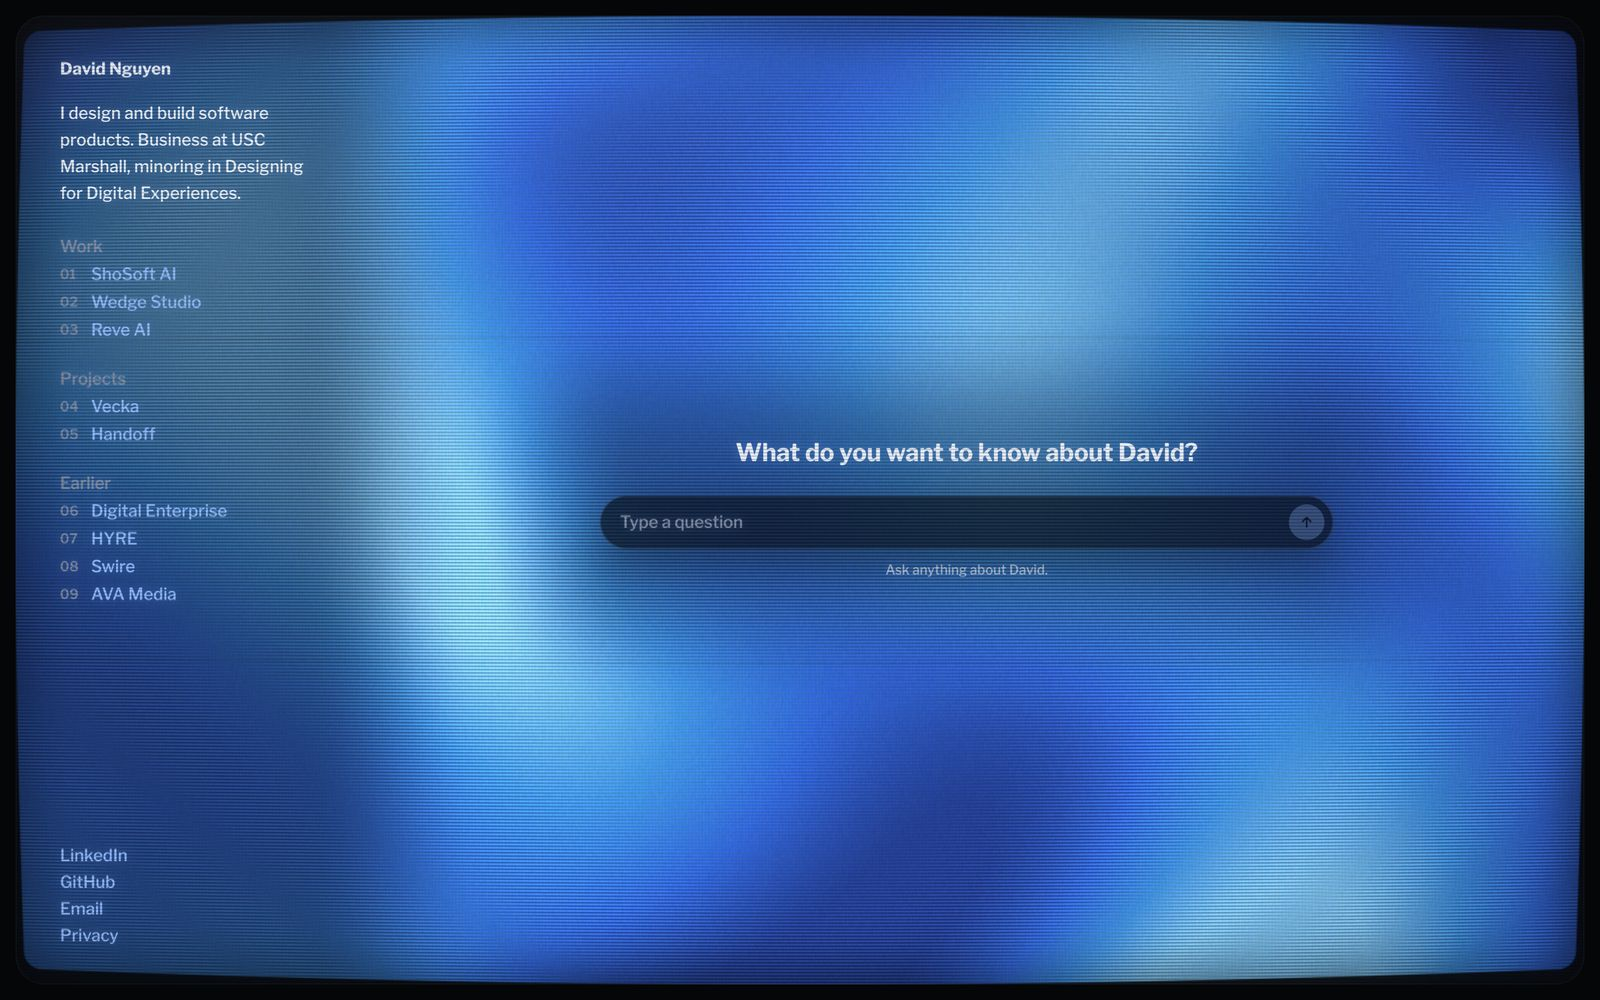
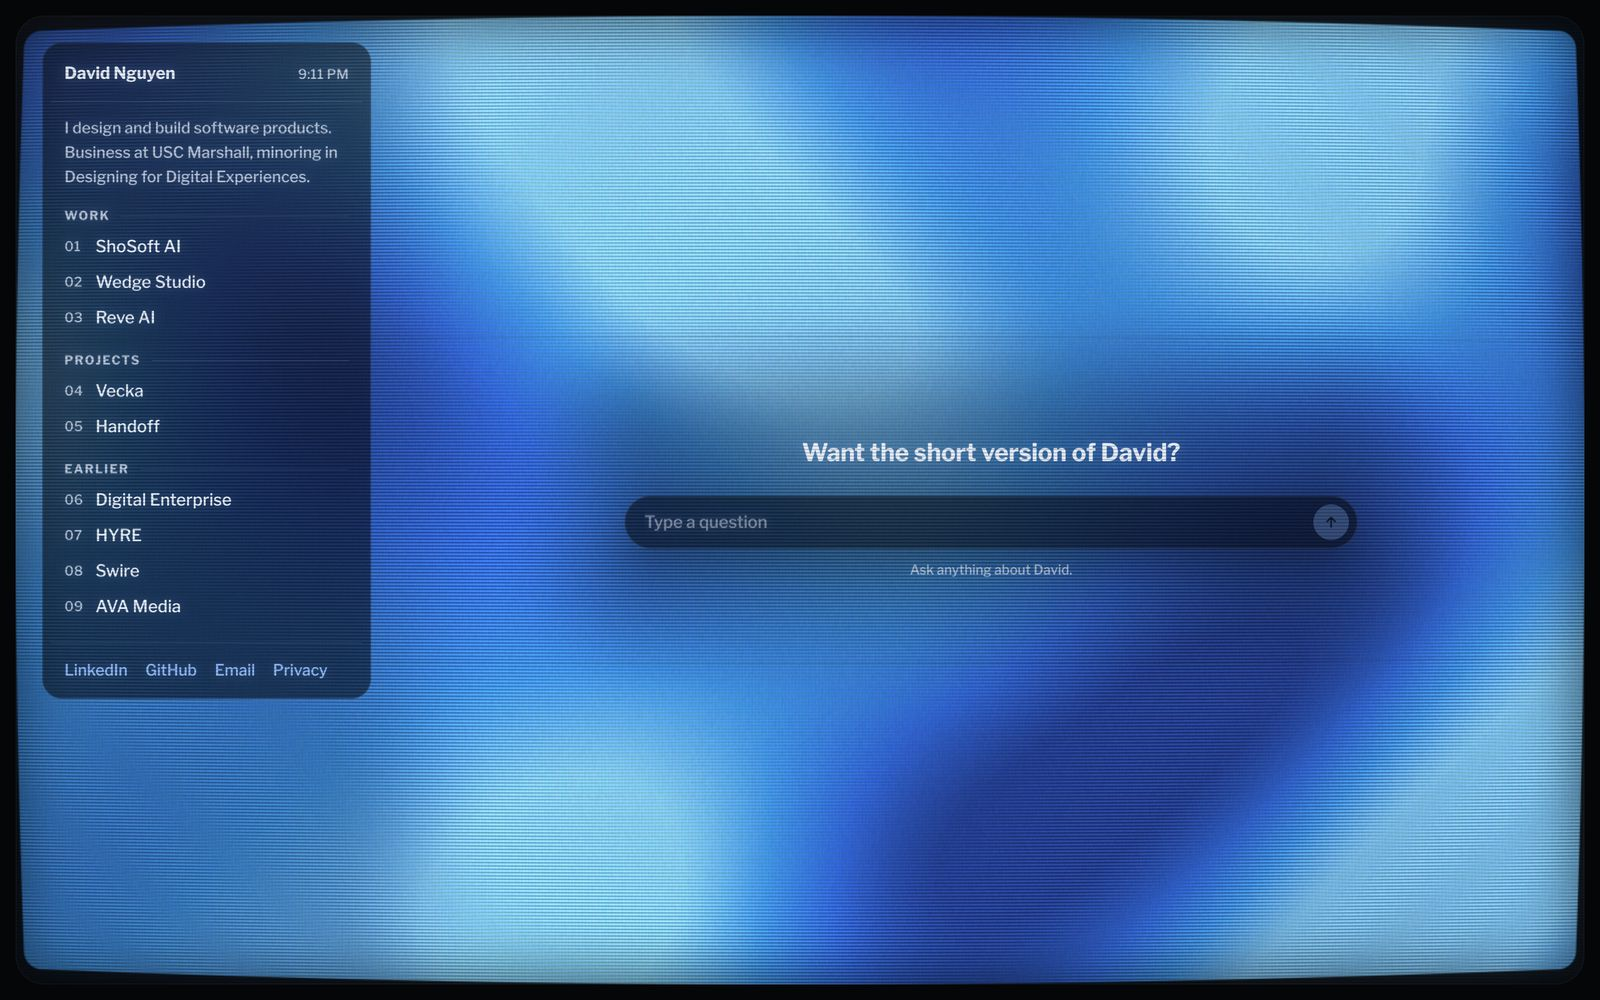
Redesign the guide as an on screen channel guide
The guide is now a panel of darker glass on the picture, like a TV's
channel guide: a header strip with the name and the time, the bio, the
channels in labelled sections with their numbers in one column, the
open one on a selection bar in the brand's colour, and the links (now
with Privacy) at the foot instead of far below. The chat column centres
in the screen to the right of the guide, the article's title lines up
with the guide's header and carries its channel number, and the chat's
box, sheet and cards share the guide's glass. README and screens updated.

diff --git a/src/styles/site.css b/src/styles/site.css
@@ -24,8 +24,16 @@
   --ease: cubic-bezier(0.22, 1, 0.36, 1);
   --pad: 14px;
   --radius: 26px;
-  /* the guide down the left of the screen */
-  --side: 300px;
+  /* panes of darker glass on the picture: the guide, the chat's box,
+     its sheet and its cards */
+  --glass-bg: rgba(5, 8, 14, 0.56);
+  --glass-line: rgba(200, 220, 255, 0.1);
+  --glass-radius: 18px;
+  /* the guide's panel, inset from the tube's edge; everything else on
+     the screen lines up to the right of it */
+  --inset: 24px;
+  --panel-w: 296px;
+  --side: calc(var(--panel-w) + 2 * var(--inset));
   /* the scanline pitch, set by the screen to match its own lines */
   --scan: 3px;
   /* the article's width: text keeps a reading measure, screens use the
@@ -47,6 +55,8 @@
     /* a lit room: dark text on a bright picture, no halo */
     --glow: none;
     --scanline: rgba(30, 40, 60, 0.07);
+    --glass-bg: rgba(250, 251, 253, 0.74);
+    --glass-line: rgba(18, 24, 33, 0.09);
     color-scheme: light;
   }
 }
@@ -109,51 +119,101 @@ button { font: inherit; color: inherit; }
   }
 }
 
-/* The on screen display: the guide down the left of the glass */
+/* The on screen display. The guide is a panel of darker glass on the
+   picture, composed like a TV's channel guide: a header strip with the
+   name and the time, a line about David, the channels in sections with
+   their numbers in one column, the open one on a selection bar, and the
+   links at the foot. */
 
 .osd {
   position: absolute;
   z-index: 2;
-  top: 0;
-  left: 0;
-  bottom: 0;
-  width: var(--side);
-  display: flex;
-  flex-direction: column;
-  padding: 36px 28px 32px 40px;
+  top: var(--inset);
+  left: var(--inset);
+  bottom: var(--inset);
+  width: var(--panel-w);
+  pointer-events: none;
+}
+.osd-panel {
+  pointer-events: auto;
+  max-height: 100%;
   overflow-y: auto;
   scrollbar-width: none;
+  padding: 16px 8px 8px;
+  border-radius: var(--glass-radius);
+  background: var(--glass-bg);
+  box-shadow: inset 0 0 0 1px var(--glass-line);
+  -webkit-backdrop-filter: blur(16px);
+  backdrop-filter: blur(16px);
   text-shadow: var(--glow);
 }
-.osd::-webkit-scrollbar { display: none; }
+.osd-panel::-webkit-scrollbar { display: none; }
 
+.osd-top {
+  display: flex;
+  align-items: baseline;
+  justify-content: space-between;
+  gap: 12px;
+  padding: 0 12px 12px;
+  border-bottom: 1px solid var(--glass-line);
+}
 .name { font-size: 15px; line-height: 24px; font-weight: 700; }
-.bio { margin-top: 16px; }
+.osd-clock { color: var(--soft); font-size: 12px; font-variant-numeric: tabular-nums; letter-spacing: 0.02em; }
+.bio { padding: 12px 12px 0; color: var(--soft); font-size: 14px; line-height: 22px; }
 
-.lists { margin-top: 24px; display: grid; gap: 20px; }
-.label { font-size: inherit; font-weight: inherit; color: var(--muted); }
+.lists { margin-top: 16px; display: grid; gap: 14px; }
+.label {
+  display: flex;
+  align-items: center;
+  gap: 10px;
+  margin: 0 12px 4px;
+  color: var(--soft);
+  font-size: 11px;
+  line-height: 16px;
+  font-weight: 700;
+  letter-spacing: 0.12em;
+  text-transform: uppercase;
+}
+.label::after { content: ''; flex: 1; height: 1px; background: var(--glass-line); }
+
+/* a channel: number, name, and the bar that marks it */
+.channel {
+  display: grid;
+  grid-template-columns: 28px 1fr auto;
+  align-items: center;
+  min-height: 32px;
+  padding: 0 10px 0 12px;
+  border-radius: 9px;
+  color: var(--ink);
+  transition: background-color 160ms var(--ease), color 160ms var(--ease);
+}
+.channel .ch {
+  color: var(--soft);
+  font-size: 12px;
+  font-variant-numeric: tabular-nums;
+  letter-spacing: 0.02em;
+}
+@media (hover: hover) { .channel:hover { background: color-mix(in srgb, var(--link) 14%, transparent); } }
+.channel.active { background: color-mix(in srgb, var(--link) 26%, transparent); box-shadow: inset 2px 0 0 var(--link); }
+.channel.active .ch { color: var(--link); }
+.channel .x { color: var(--soft); }
+.channel:focus-visible { outline-offset: -1px; border-radius: 9px; }
 
 .link {
-  display: inline-flex;
-  align-items: center;
-  gap: 6px;
   color: var(--link);
   transition: color 700ms var(--ease), opacity 160ms var(--ease);
 }
 @media (hover: hover) { .link:hover { opacity: 0.72; } }
-.link .x { flex: none; opacity: 0.85; }
-/* channel numbers, quiet and even */
-.channel .ch {
-  min-width: 22px;
-  color: var(--muted);
-  font-variant-numeric: tabular-nums;
-  font-size: 12px;
-  letter-spacing: 0.02em;
-  transition: color 700ms var(--ease);
-}
-.channel.active .ch { color: var(--link); }
 
-.links { margin-top: auto; padding-top: 32px; }
+.links {
+  display: flex;
+  flex-wrap: wrap;
+  gap: 4px 16px;
+  margin-top: 16px;
+  padding: 12px 12px 6px;
+  border-top: 1px solid var(--glass-line);
+  font-size: 14px;
+}
 
 /* The article, on the screen beside the guide. It lies under the field,
    which blanks to reveal it. */
@@ -176,11 +236,12 @@ button { font: inherit; color: inherit; }
 
 .article-inner {
   width: var(--col);
-  padding: 36px 40px 72px 8px;
+  padding: 40px 40px 72px 0;
 }
 
 .article-head { display: flex; align-items: center; justify-content: space-between; }
-.article-head .name { font-weight: 700; }
+.article-head .name { font-weight: 700; display: flex; align-items: baseline; gap: 10px; }
+.article-head .ch { color: var(--link); font-size: 12px; font-variant-numeric: tabular-nums; transition: color 700ms var(--ease); }
 .close { display: none; }
 
 .article p { margin-top: 16px; max-width: 620px; }
@@ -386,10 +447,10 @@ button { font: inherit; color: inherit; }
   gap: 8px;
   padding: 8px 8px 8px 18px;
   border-radius: 24px;
-  background: rgba(6, 9, 15, 0.62);
-  box-shadow: inset 0 0 0 1px rgba(200, 220, 255, 0.12), 0 10px 40px rgba(0, 0, 0, 0.35);
-  -webkit-backdrop-filter: blur(14px);
-  backdrop-filter: blur(14px);
+  background: var(--glass-bg);
+  box-shadow: inset 0 0 0 1px var(--glass-line), 0 10px 40px rgba(0, 0, 0, 0.3);
+  -webkit-backdrop-filter: blur(16px);
+  backdrop-filter: blur(16px);
   transition: box-shadow 200ms var(--ease);
 }
 .composer:focus-within { box-shadow: inset 0 0 0 1px color-mix(in srgb, var(--link) 55%, transparent), 0 10px 40px rgba(0, 0, 0, 0.35); }
@@ -437,7 +498,7 @@ button { font: inherit; color: inherit; }
   padding: 10px 12px 12px;
   border-radius: 12px;
   background: color-mix(in srgb, var(--ink) 5%, transparent);
-  box-shadow: inset 0 0 0 1px var(--line);
+  box-shadow: inset 0 0 0 1px var(--glass-line);
   transition: box-shadow 160ms var(--ease);
 }
 a.card:hover, a.card:focus-visible { box-shadow: inset 0 0 0 1px color-mix(in srgb, var(--link) 55%, transparent); }
@@ -472,18 +533,17 @@ a.card:hover, a.card:focus-visible { box-shadow: inset 0 0 0 1px color-mix(in sr
 .crt-slot[data-mode="dock"] .chat-note { display: none; }
 .crt-slot[data-mode="dock"][data-expanded] .chat {
   padding: 12px 10px 10px;
-  border-radius: 20px;
-  background: rgba(6, 9, 15, 0.5);
+  border-radius: var(--glass-radius);
+  background: var(--glass-bg);
   -webkit-backdrop-filter: blur(16px);
   backdrop-filter: blur(16px);
-  box-shadow: inset 0 0 0 1px rgba(200, 220, 255, 0.08);
+  box-shadow: inset 0 0 0 1px var(--glass-line);
 }
 
 @media (prefers-color-scheme: light) {
-  .composer { background: rgba(250, 251, 253, 0.78); box-shadow: inset 0 0 0 1px rgba(18, 24, 33, 0.1), 0 10px 30px rgba(30, 45, 80, 0.12); }
+  .composer { box-shadow: inset 0 0 0 1px var(--glass-line), 0 10px 30px rgba(30, 45, 80, 0.12); }
   .composer:focus-within { box-shadow: inset 0 0 0 1px color-mix(in srgb, var(--link) 50%, transparent), 0 10px 30px rgba(30, 45, 80, 0.12); }
   .card { background: rgba(255, 255, 255, 0.55); }
-  .crt-slot[data-mode="dock"][data-expanded] .chat { background: rgba(244, 246, 250, 0.82); box-shadow: inset 0 0 0 1px rgba(18, 24, 33, 0.08); }
   .cursor { box-shadow: none; }
 }
 
@@ -518,8 +578,9 @@ dialog.viewer[open]::backdrop { animation: fade 300ms var(--ease) both; }
    bar along its bottom, and an article slides up over it. */
 
 @media (max-width: 999px) {
-  :root { --pad: 8px; --radius: 22px; --side: 0px; }
-  .osd { width: auto; right: 0; padding: 32px 24px 96px; }
+  :root { --pad: 8px; --radius: 22px; --inset: 12px; }
+  .osd { width: auto; right: var(--inset); bottom: 80px; }
+  .osd-panel { padding-top: 14px; }
   .crt-slot[data-mode] { left: 12px; right: 12px; top: auto; bottom: 12px; width: auto; height: 56px; transform: none; }
   /* opened, the conversation takes the whole screen */
   .crt-slot[data-mode="bar"][data-expanded] { inset: 0; height: auto; z-index: 3; }

diff --git a/src/components/site/App.tsx b/src/components/site/App.tsx
@@ -29,6 +29,20 @@ const LINKS = [
 
 const slugOf = (path: string) => path.match(/^\/projects\/([^/]+)\/?$/)?.[1] ?? null;
 
+/* the time in the guide's header strip, like a set's on screen clock;
+   blank until the page runs so the server and the browser agree */
+function Clock() {
+  const [now, setNow] = useState('');
+  useEffect(() => {
+    const fmt = new Intl.DateTimeFormat(undefined, { hour: 'numeric', minute: '2-digit' });
+    const tick = () => setNow(fmt.format(new Date()));
+    tick();
+    const id = window.setInterval(tick, 15000);
+    return () => clearInterval(id);
+  }, []);
+  return <span className="osd-clock" aria-hidden="true">{now}</span>;
+}
+
 export default function App({ work, projects, earlier, initial }: Props) {
   const all = useMemo(() => [...work, ...projects, ...earlier], [work, projects, earlier]);
   const sections = useMemo(() => [
@@ -167,6 +181,7 @@ export default function App({ work, projects, earlier, initial }: Props) {
       <div className="tube">
         <Panel
           p={all.find((x) => x.slug === shown) ?? null}
+          channel={shown ? channel(shown) : ''}
           open={!!open}
           onClose={() => show(null)}
           onZoom={(src, alt) => setZoom({ src, alt })}
@@ -175,50 +190,57 @@ export default function App({ work, projects, earlier, initial }: Props) {
           <Field palette={palette} mark={open} cut={cut} />
         </main>
 
-        {/* the on screen display: name, a line, the channels, links */}
-        <header className="osd" data-calm="0.8">
-          <h1 className="name">David Nguyen</h1>
-          <p className="bio">I design and build software products. Business at USC Marshall, minoring in Designing for Digital Experiences.</p>
+        {/* The on screen display: a panel on the glass like a TV's channel
+            guide. A header strip (name and the time), a line about David,
+            the channels in three sections with the open one on a
+            selection bar, and the links at the foot. */}
+        <header className="osd" data-calm="0.35">
+          <div className="osd-panel">
+            <div className="osd-top">
+              <h1 className="name">David Nguyen</h1>
+              <Clock />
+            </div>
+            <p className="bio">I design and build software products. Business at USC Marshall, minoring in Designing for Digital Experiences.</p>
 
-          <nav className="lists" onPointerLeave={leave} aria-label="Work and projects">
-            {sections.map((s) => (
-              <section key={s.id} aria-labelledby={`h-${s.id}`}>
-                <h2 id={`h-${s.id}`} className="label">{s.title}</h2>
-                <ul>
-                  {s.items.map((p) => (
-                    <li key={p.slug}>
-                      <a
-                        className={`link channel${open === p.slug ? ' active' : ''}`}
-                        href={`/projects/${p.slug}/`}
-                        aria-current={open === p.slug ? 'page' : undefined}
-                        onPointerEnter={(e) => enter(p.slug, e)}
-                        onClick={(e) => {
-                          if (e.metaKey || e.ctrlKey || e.shiftKey || e.altKey || e.button !== 0) return;
-                          e.preventDefault();
-                          show(open === p.slug ? null : p.slug);
-                        }}
-                      >
-                        <span className="ch" aria-hidden="true">{channel(p.slug)}</span>
-                        {p.name}
-                        {open === p.slug && (
-                          <svg className="x" viewBox="0 0 16 16" width="11" height="11" aria-hidden="true">
-                            <circle cx="8" cy="8" r="7" fill="currentColor" />
-                            <path d="M5.6 5.6l4.8 4.8M10.4 5.6l-4.8 4.8" stroke="var(--screen)" strokeWidth="1.6" strokeLinecap="round" />
-                          </svg>
-                        )}
-                      </a>
-                    </li>
-                  ))}
-                </ul>
-              </section>
-            ))}
-          </nav>
+            <nav className="lists" onPointerLeave={leave} aria-label="Work and projects">
+              {sections.map((s) => (
+                <section key={s.id} aria-labelledby={`h-${s.id}`}>
+                  <h2 id={`h-${s.id}`} className="label">{s.title}</h2>
+                  <ul>
+                    {s.items.map((p) => (
+                      <li key={p.slug}>
+                        <a
+                          className={`channel${open === p.slug ? ' active' : ''}`}
+                          href={`/projects/${p.slug}/`}
+                          aria-current={open === p.slug ? 'page' : undefined}
+                          onPointerEnter={(e) => enter(p.slug, e)}
+                          onClick={(e) => {
+                            if (e.metaKey || e.ctrlKey || e.shiftKey || e.altKey || e.button !== 0) return;
+                            e.preventDefault();
+                            show(open === p.slug ? null : p.slug);
+                          }}
+                        >
+                          <span className="ch" aria-hidden="true">{channel(p.slug)}</span>
+                          <span className="ch-name">{p.name}</span>
+                          {open === p.slug && (
+                            <svg className="x" viewBox="0 0 16 16" width="12" height="12" aria-hidden="true">
+                              <path d="M4.5 4.5l7 7M11.5 4.5l-7 7" stroke="currentColor" strokeWidth="1.6" strokeLinecap="round" />
+                            </svg>
+                          )}
+                        </a>
+                      </li>
+                    ))}
+                  </ul>
+                </section>
+              ))}
+            </nav>
 
-          <ul className="links">
-            {LINKS.map((l) => (
-              <li key={l.label}><a className="link" href={l.url} target={l.url.startsWith('http') ? '_blank' : undefined} rel="noopener">{l.label}</a></li>
-            ))}
-          </ul>
+            <ul className="links">
+              {LINKS.map((l) => (
+                <li key={l.label}><a className="link" href={l.url} target={l.url.startsWith('http') ? '_blank' : undefined} rel="noopener">{l.label}</a></li>
+              ))}
+            </ul>
+          </div>
         </header>
 
         {/* the chat, in the middle of the screen (#crt-chat-slot, see .crt-slot) */}

diff --git a/src/components/site/Panel.tsx b/src/components/site/Panel.tsx
@@ -8,12 +8,14 @@ import { Compare, Frame, type Block, type Project, type Shot } from './Media';
 
 type Props = {
   p: Project | null;
+  /* its channel number in the guide */
+  channel: string;
   open: boolean;
   onClose: () => void;
   onZoom: (src: string, alt: string) => void;
 };
 
-export function Panel({ p, open, onClose, onZoom }: Props) {
+export function Panel({ p, channel, open, onClose, onZoom }: Props) {
   const ref = useRef<HTMLElement>(null);
 
   useEffect(() => { if (open) ref.current?.scrollTo({ top: 0 }); }, [open, p?.slug]);
@@ -71,7 +73,7 @@ export function Panel({ p, open, onClose, onZoom }: Props) {
       {p && (
         <div className="article-inner" key={p.slug}>
           <header className="article-head">
-            <h2 className="name">{p.name}</h2>
+            <h2 className="name"><span className="ch" aria-hidden="true">{channel}</span>{p.name}</h2>
             <button type="button" className="close" onClick={onClose} aria-label="Close">
               <svg viewBox="0 0 16 16" width="12" height="12" aria-hidden="true"><path d="M4 4l8 8M12 4l-8 8" stroke="currentColor" strokeWidth="1.6" strokeLinecap="round" /></svg>
             </button>

diff --git a/README.md b/README.md
@@ -8,7 +8,7 @@ I'm David Nguyen, a business student at USC Marshall with a minor in Designing f
 
 ## What it does
 
-- **The whole page is the screen.** There is no sidebar beside a picture. My name, a line about me and every project sit on the glass as an on screen guide, with projects numbered like channels. Up and down change the channel.
+- **The whole page is the screen.** There is no sidebar beside a picture. My name, a line about me and every project sit on the glass in a guide panel composed like a TV's channel guide: a header strip with the time, projects numbered like channels in one column, the open one on a selection bar. Up and down change the channel.
 - **Projects open on the glass.** Picking one blanks the picture from the left, line by line, and the write up appears underneath. The project's logo glows in the strip that's left, in that brand's colours.
 - **A chat in the middle.** It opens the way ChatGPT does, one question picked at random above the box and "Ask anything about David." under it. Visitors can ask about my work. Answers stream in, and when it helps the assistant shows project cards, a timeline or my contact details, or opens a project on the page for them.
 - **It feels like a real tube.** It powers on with a dot, a line and a short wobble, moving things leave a little afterglow, and the picture bends slightly near the cursor like a magnet near the glass.
